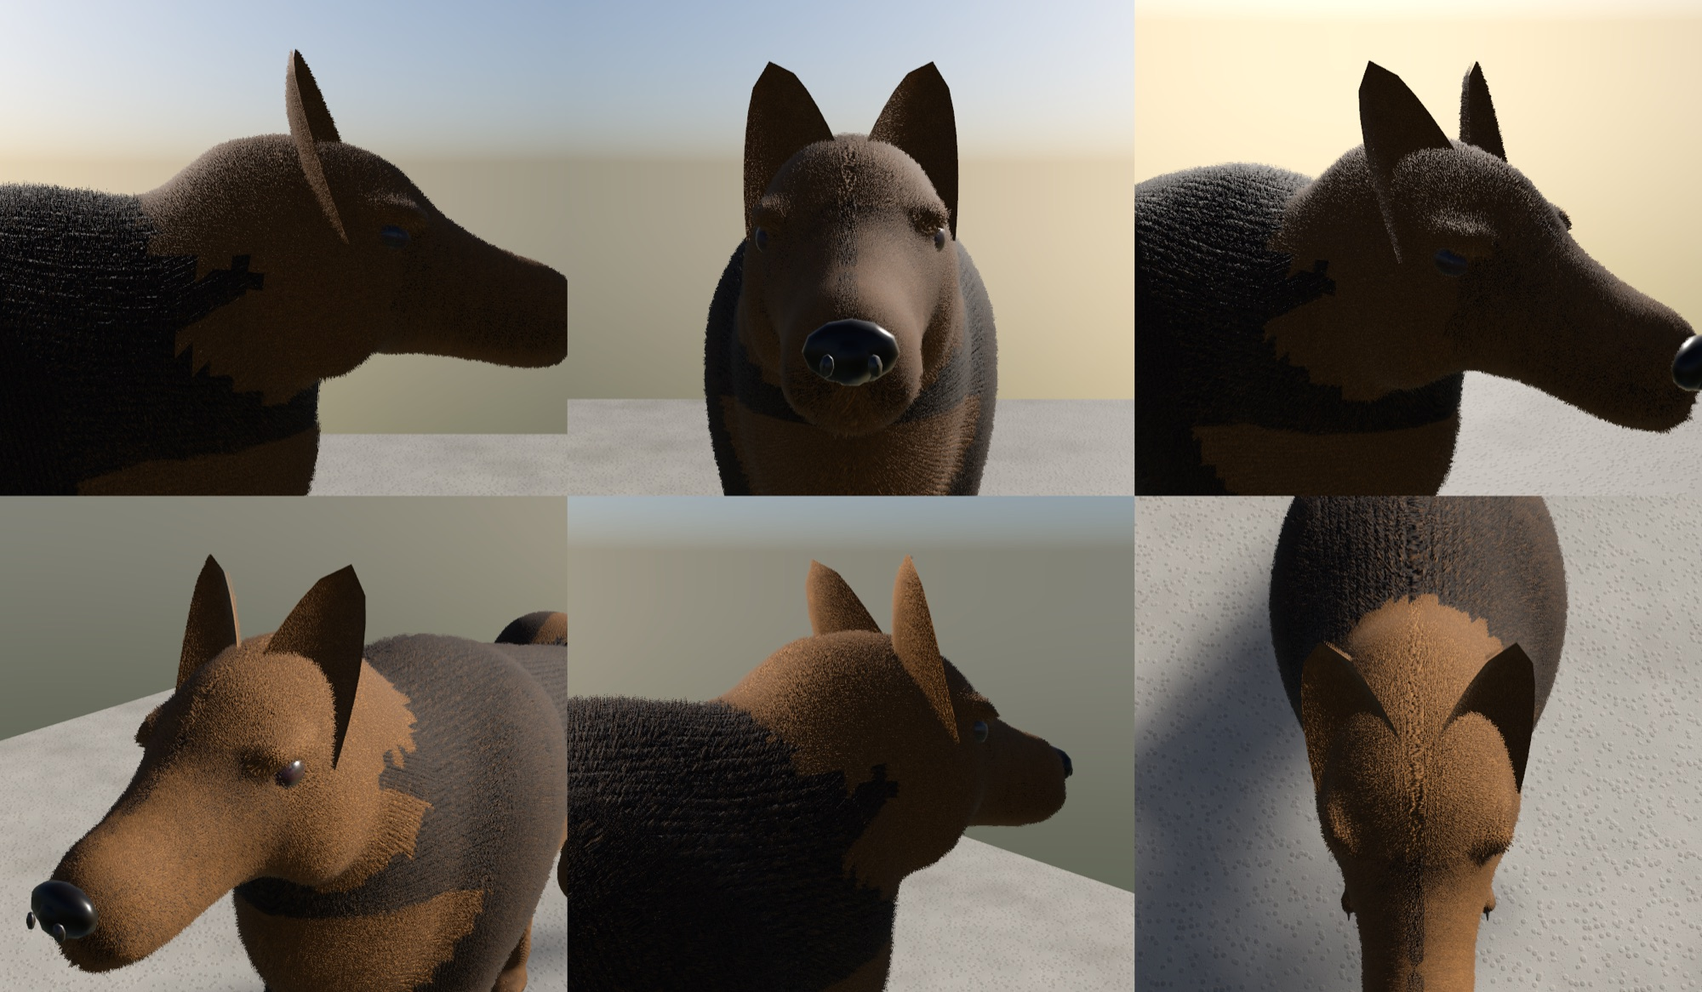
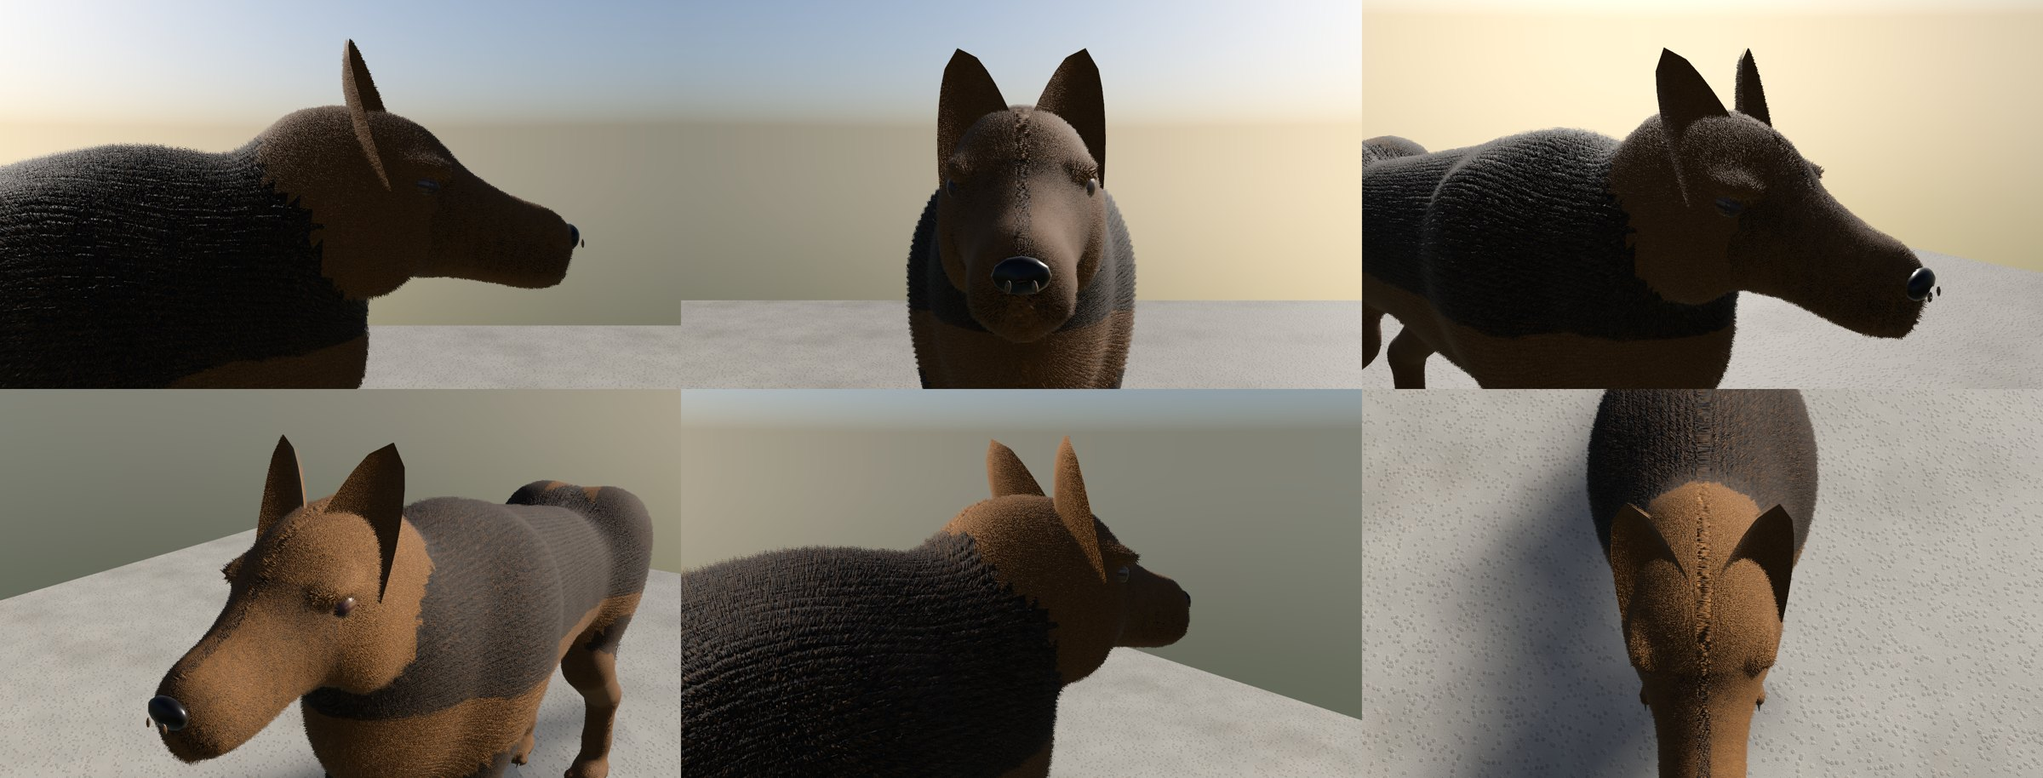
Dogs gate iteration 4: no corgi banding, dog nose and eyes, lower ride height, limb color
Torso fur chart wins over leg charts near the body (SDFPrim.bias), limb shells use coarser strands to stop alpha aliasing, dog coat noise is isotropic in atlas space, nose pad shrunk with slit nostrils, iris colours from palette, rideHeight 0.43 and 0.46, corgi socks via GroundPalette.limb, animalpreview --dump-tex.

diff --git a/Sources/AnimalCore/Species/DogGround.swift b/Sources/AnimalCore/Species/DogGround.swift
@@ -13,11 +13,11 @@ extension GroundProfile {
         blurb: "Feathered gold coat, broad skull and soft hanging ears. Fetches, leans on a hand and wags with the whole back half.",
         anatomy: GroundAnatomy(bodyLength: 0.74, bodyDepth: 0.31, bodyWidth: 0.25, headLength: 0.26, headWidth: 0.15, headHeight: 0.16, snout: 0.1,
                                earLength: 0.15, earWidth: 0.115, tailLength: 0.4, tailWidth: 0.15, foreLeg: 0.5, hindLeg: 0.5, legRadius: 0.03, pitch: -1, eyeRadius: 0.0105,
-                               whiskers: false, digitigrade: true, rideHeight: 0.5, foreAnkle: 0.085, hindAnkle: 0.17,
+                               whiskers: false, digitigrade: true, rideHeight: 0.43, foreAnkle: 0.085, hindAnkle: 0.17,
                                neckLength: 0.16, neckRise: 36, neckThick: 1.0, neckDeep: 1.1, headDrop: 8, thighScale: 1.5, clawScale: 0.8, noseSize: 0.13, earTilt: 0.5, tailDrop: 28,
                                depthShape: [0.35, 0.82, 0.92, 0.9, 0.92, 1.0, 1.04, 0.92, 0.55], widthShape: [0.35, 0.82, 0.9, 0.86, 0.92, 1.0, 1.0, 0.88, 0.5],
                                headShape: [0.86, 1.0, 1.0, 0.94, 0.7, 0.6, 0.56, 0.5], strideScale: 1.1, withers: 0.3, earDrop: 1),
-        palette: GroundPalette(back: 0xDCA95C, belly: 0xDDB97E, accent: 0xE8CB96, ear: 0xB9863F, nose: 0x151110, eye: 0x3A2412, claw: 0x2B2521, tail: 0xD4A560,
+        palette: GroundPalette(back: 0xDCA95C, belly: 0xDDB97E, accent: 0xE8CB96, ear: 0xB9863F, nose: 0x151110, eye: 0x6A4420, claw: 0x2B2521, tail: 0xD4A560,
                                tailTip: 0xE6C48C, face: 0xDDAE68, flankLine: 0.6, pattern: 0.08, strands: 360, fuzz: 0.7, muzzle: 0xDDB87C),
         behavior: GroundBehavior(gait: .stride, walk: 1.1, run: 7, climbs: false, boldness: 1, skittishRadius: 0.3, rarity: 0.2, seasons: dogSeasons,
                                  activity: [.dawn: 1.2, .day: 1, .dusk: 1.2, .night: 0.3],
@@ -28,11 +28,11 @@ extension GroundProfile {
         blurb: "Black saddle over tan, erect ears and a sloping back. Watches the doorway and trots beside a hand.",
         anatomy: GroundAnatomy(bodyLength: 0.8, bodyDepth: 0.31, bodyWidth: 0.22, headLength: 0.27, headWidth: 0.13, headHeight: 0.15, snout: 0.115,
                                earLength: 0.13, earWidth: 0.085, tailLength: 0.42, tailWidth: 0.13, foreLeg: 0.52, hindLeg: 0.52, legRadius: 0.029, pitch: -4, eyeRadius: 0.0095,
-                               whiskers: false, digitigrade: true, rideHeight: 0.52, foreAnkle: 0.085, hindAnkle: 0.19,
+                               whiskers: false, digitigrade: true, rideHeight: 0.46, foreAnkle: 0.085, hindAnkle: 0.19,
                                neckLength: 0.11, neckRise: 38, neckThick: 0.75, neckDeep: 1.15, headDrop: 10, thighScale: 1.5, clawScale: 0.8, noseSize: 0.12, earTilt: 0.22, tailDrop: 40,
                                depthShape: [0.35, 0.8, 0.9, 0.82, 0.88, 1.0, 1.04, 0.9, 0.52], widthShape: [0.35, 0.8, 0.88, 0.8, 0.88, 0.96, 0.98, 0.84, 0.48],
                                headShape: [0.84, 1.0, 0.98, 0.9, 0.66, 0.5, 0.44, 0.4], strideScale: 1.1, withers: 0.6),
-        palette: GroundPalette(back: 0x2A2019, belly: 0xA06A2C, accent: 0x1A1410, ear: 0x3A2A1E, nose: 0x0F0C0A, eye: 0x3A2412, claw: 0x1E1914, tail: 0x2A2019,
+        palette: GroundPalette(back: 0x2A2019, belly: 0xA06A2C, accent: 0x1A1410, ear: 0x3A2A1E, nose: 0x0F0C0A, eye: 0x5A3A1C, claw: 0x1E1914, tail: 0x2A2019,
                                tailTip: 0x1A1410, face: 0xA06C32, flankLine: 0.5, pattern: 0.1, strands: 320, fuzz: 0.45, muzzle: 0x2C2018),
         behavior: GroundBehavior(gait: .stride, walk: 1.2, run: 9, climbs: false, boldness: 0.9, skittishRadius: 0.3, rarity: 0.25, seasons: dogSeasons,
                                  activity: [.dawn: 1.2, .day: 1, .dusk: 1.2, .night: 0.5],
@@ -47,8 +47,8 @@ extension GroundProfile {
                                neckLength: 0.07, neckRise: 30, neckThick: 0.8, neckDeep: 1.05, headDrop: 6, thighScale: 1.35, clawScale: 0.8, noseSize: 0.12, earTilt: 0.3, tailDrop: 0,
                                depthShape: [0.4, 0.86, 0.96, 1.0, 1.02, 1.04, 1.04, 0.95, 0.6], widthShape: [0.4, 0.86, 0.94, 0.98, 1.0, 1.02, 1.0, 0.9, 0.55],
                                headShape: [0.84, 1.0, 0.98, 0.9, 0.68, 0.54, 0.48, 0.44], strideScale: 0.55, withers: 0.2),
-        palette: GroundPalette(back: 0xC27832, belly: 0xF4ECDD, accent: 0xF2E8D6, ear: 0xB86F2C, nose: 0x151110, eye: 0x2E1A0C, claw: 0x2B2521, tail: 0xC27832,
-                               tailTip: 0xC27832, face: 0xC98240, flankLine: 0.62, pattern: 0.1, strands: 340, fuzz: 0.55, muzzle: 0xF0E4D0),
+        palette: GroundPalette(back: 0xC27832, belly: 0xF4ECDD, accent: 0xF2E8D6, ear: 0xB86F2C, nose: 0x151110, eye: 0x4E3216, claw: 0x2B2521, tail: 0xC27832,
+                               tailTip: 0xC27832, face: 0xC98240, flankLine: 0.62, pattern: 0.1, strands: 340, fuzz: 0.55, muzzle: 0xF0E4D0, limb: 0xEBD9BE),
         behavior: GroundBehavior(gait: .stride, walk: 0.9, run: 5, climbs: false, boldness: 1, skittishRadius: 0.3, rarity: 0.2, seasons: dogSeasons,
                                  activity: [.dawn: 1.2, .day: 1, .dusk: 1.2, .night: 0.3],
                                  likes: [.openGround: 1], minHabitat: 0.1, alertRate: 0.3, visitsYards: false))

diff --git a/Sources/RealMaterials/Shaders/FaunaShaders.swift b/Sources/RealMaterials/Shaders/FaunaShaders.swift
@@ -281,6 +281,34 @@ FaStrand fa_strand(float t, float v, int nx, float lenV, uint sd, float wmax, fl
     return o;
 }
 
+// Coat marking weight 0..1 in atlas space (t: 0 dorsal midline .. 1 ventral midline, v: 0 rear .. 1 front).
+// kind 1 tabby stripes, 2 spots, 3 patches, 4 saddle. Painted in the accent colour by furCoat and furShell.
+float coatMark(float2 uv, int kind, uint sd) {
+    kind = kind & 15;
+    if (kind <= 0) return 0.0;
+    float t = min(uv.x, 1.0 - uv.x) * 2.0;
+    float n = fbm(uv, int2(6, 8), 3, sd + 4001u);
+    if (kind == 1) {
+        float w = fbm(uv, int2(4, 6), 2, sd + 4003u);
+        float band = sin((uv.y * 15.0 + t * 2.2 + w * 2.6) * 3.14159265);
+        return smoothstep(0.30, 0.52, band) * (1.0 - smoothstep(0.62, 0.86, t + 0.08 * n));
+    }
+    if (kind == 2) {
+        float2 g = float2(t * 9.0, uv.y * 15.0);
+        float2 c0 = floor(g); float best = 9.0; float rad = 0.3;
+        for (int j = -1; j <= 1; j++) for (int i = -1; i <= 1; i++) {
+            float2 c = c0 + float2(i, j);
+            uint hs = pcg(uint(int(c.x) + 4096) * 7919u + uint(int(c.y) + 4096) * 104729u + sd + 4007u);
+            float2 o = float2(float(hs & 0xffffu), float((hs >> 16) & 0xffffu)) / 65536.0;
+            float r = length(g - (c + 0.2 + 0.6 * o));
+            if (r < best) { best = r; rad = 0.18 + 0.2 * (float(pcg(hs) & 0xffffu) / 65536.0); }
+        }
+        return (1.0 - smoothstep(rad * 0.7, rad, best)) * (1.0 - smoothstep(0.8, 0.95, t));
+    }
+    if (kind == 3) return smoothstep(0.0, 0.06, fbm(uv, int2(3, 4), 3, sd + 4011u));
+    return 1.0 - smoothstep(0.34, 0.46, t + 0.07 * n);
+}
+
 S furCoat(float2 uv, constant RFParams &P) {
     S s = defaults(); s.rough = 0.9;
     float nx0 = max(P.f.x, 24.0);
@@ -290,11 +318,14 @@ S furCoat(float2 uv, constant RFParams &P) {
     float lum = dot(P.colorC.rgb, float3(0.3, 0.55, 0.15));
     float sw = P.f.z * (1.0 - smoothstep(0.08, 0.30, lum));            // stripes only with a dark colorC
     // Coat-wide colour variation: broad light/dark patches plus a warm/cool drift.
-    float patch = fbm(uv, int2(5, 7), 3, P.seed + 111u);
-    float drift = fbm(uv, int2(9, 13), 2, P.seed + 211u);
+    // Dog charts (pad0 bit 16) cover u 0..0.5 per half circumference but v 0..1, so halve the u frequency for round blotches.
+    bool dg = int(P.pad0) >= 16;
+    int2 fP = dg ? int2(3, 6) : int2(5, 7), fD = dg ? int2(6, 12) : int2(9, 13);
+    float patch = fbm(uv, fP, 3, P.seed + 111u);
+    float drift = fbm(uv, fD, 2, P.seed + 211u);
     float3 tint = float3(1.0 + 0.06 * drift, 1.0, 1.0 - 0.06 * drift) * (1.0 + 0.14 * patch);
     // Low-frequency domain warp breaks strand-row alignment (tile banding). Mirror safe: t stays >= 0.
-    float2 wp = float2(fbm(uv, int2(6, 9), 2, P.seed + 301u), fbm(uv, int2(7, 5), 2, P.seed + 303u));
+    float2 wp = float2(fbm(uv, dg ? int2(4, 8) : int2(6, 9), 2, P.seed + 301u), fbm(uv, dg ? int2(3, 6) : int2(7, 5), 2, P.seed + 303u));
     float tw = fabs(t + 0.006 * wp.x), vw = uv.y + 0.008 * wp.y;
     // Layers from the surface down: sparse long guard hairs, then four dense fine coat layers.
     const float scl[5] = { 0.42, 1.0, 1.17, 0.88, 1.31 };
@@ -358,6 +389,12 @@ S furCoat(float2 uv, constant RFParams &P) {
     bool underM = (t + zn) > P.f.y;
     float3 coat = (underM ? P.colorB.rgb : P.colorA.rgb) * tint * (0.92 + 0.12 * soft);
     outC = mix(outC, coat, 0.45);
+    float mk = coatMark(uv, int(P.pad0), P.seed);
+    if (mk > 0.001) {
+        float dr = clamp(dot(outC, float3(0.3, 0.55, 0.15)) / max(dot(coat, float3(0.3, 0.55, 0.15)), 0.02), 0.55, 1.5);
+        outC = mix(outC, P.colorC.rgb * dr, mk * 0.94);
+        coat = mix(coat, P.colorC.rgb, mk * 0.94);
+    }
     // Guard every channel: a NaN height turns the derived normal map NaN, which renders black under IBL.
     if (!all(isfinite(outC))) outC = coat;
     if (!isfinite(hgt)) hgt = 0.2;
@@ -395,6 +432,8 @@ S furShell(float2 uv, constant RFParams &P) {
     bool under = (t + zn) > P.f.y;
     float3 base = (under ? P.colorB.rgb : P.colorA.rgb) * (0.86 + 0.28 * h2);
     bool guard = h1 > 1.0 - P.f.w;
+    float mk = coatMark(uv, int(P.pad0), P.seed);
+    base = mix(base, P.colorC.rgb * (0.86 + 0.28 * h2), mk * 0.94);
     s.albedo = guard ? mix(base, P.colorC.rgb, P.f.z) : base;
     s.height = s.alpha; s.ao = 1.0;
     return s;

diff --git a/Sources/AnimalCore/Materials/FaunaMaterials.swift b/Sources/AnimalCore/Materials/FaunaMaterials.swift
@@ -148,7 +148,10 @@ public enum FaunaMaterials {
     public static func specs(for p: GroundProfile) -> [MaterialSpec] {
         let id = p.species.rawValue, c = p.palette
         func make(_ r: GroundRegion, _ program: TextureProgram, _ edit: (inout MaterialSpec) -> Void) -> MaterialSpec {
-            MaterialSpec(key: key(id, r), program: program).with { $0.seed = seed(id, r); edit(&$0) }
+            MaterialSpec(key: key(id, r), program: program).with {
+                $0.seed = seed(id, r); edit(&$0)
+                if program == .furCoat || program == .furShell, c.markings != 0 || GroundSpecies.dogs.contains(p.species) { $0.coatPattern = c.markings | (GroundSpecies.dogs.contains(p.species) ? 16 : 0) }
+            }
         }
         return [
             make(.body, .furCoat) {
@@ -173,7 +176,7 @@ public enum FaunaMaterials {
             make(.limb, .furCoat) {
                 // Leg coat: body coat program, finer strands, no shells (thin limbs show shell layering).
                 let dog = p.anatomy.earDrop >= 0 && GroundSpecies.dogs.contains(p.species)
-                $0.colorA = linear(dog ? c.belly : c.back); $0.colorB = linear(c.belly); $0.colorC = linear(c.accent)
+                $0.colorA = linear(dog ? (c.limb ?? c.belly) : c.back); $0.colorB = linear(c.belly); $0.colorC = linear(c.accent)
                 $0.knobs = V4(c.strands * 1.4, dog ? 1.2 : c.flankLine, c.pattern * 0.5, c.fuzz)
                 $0.tileSize = 0; $0.resolution = 512; $0.normalStrength = 1.0; $0.roughness = 0.92
             },
@@ -185,8 +188,8 @@ public enum FaunaMaterials {
             },
             make(.limbShell, .furShell) {
                 // Dog leg fur: one coat colour all round (the back/belly split reads as stripes on a cylinder).
-                $0.colorA = linear(c.belly); $0.colorB = linear(c.belly); $0.colorC = linear(c.accent)
-                $0.knobs = V4(c.strands, 1.2, 0.5, 0.25)
+                $0.colorA = linear(c.limb ?? c.belly); $0.colorB = linear(c.limb ?? c.belly); $0.colorC = linear(c.accent)
+                $0.knobs = V4(c.strands * 0.4, 1.2, 0.5, 0.25)
                 $0.tileSize = 0; $0.resolution = 1024; $0.normalStrength = 0.4; $0.roughness = 0.86; $0.mode = .cutout
             },
             make(.headShell, .furShell) {
@@ -212,12 +215,13 @@ public enum FaunaMaterials {
                 $0.tileSize = 0.01; $0.resolution = 128; $0.normalStrength = 0.2; $0.roughness = 0.5
             },
             make(.nose, .plastic) {
+                let dog = GroundSpecies.dogs.contains(p.species)
                 $0.colorA = linear(c.nose); $0.knobs = V4(0.4, 0.3, 0.3, 0)
-                $0.tileSize = 0.02; $0.resolution = 128; $0.normalStrength = 0.3; $0.roughness = p.anatomy.snoutDisc ? 0.6 : 0.35; $0.clearcoat = p.anatomy.snoutDisc ? 0.04 : 0.3
+                $0.tileSize = 0.02; $0.resolution = 128; $0.normalStrength = dog ? 1.4 : 0.3; $0.roughness = p.anatomy.snoutDisc ? 0.6 : (dog ? 0.5 : 0.35); $0.clearcoat = p.anatomy.snoutDisc ? 0.04 : (dog ? 0.12 : 0.3)
             },
             make(.eye, .plastic) {
                 // Dark brown iris under a clear cornea: tiny roughness, full clearcoat for the wet highlight.
-                $0.colorA = linear(0x120804); $0.knobs = V4(0.25, 0.2, 0.25, 0)
+                $0.colorA = linear(GroundSpecies.dogs.contains(p.species) ? c.eye : 0x120804); $0.knobs = V4(0.25, 0.2, 0.25, 0)
                 $0.tileSize = 0.004; $0.resolution = 128; $0.normalStrength = 0; $0.roughness = 0.02; $0.clearcoat = 1; $0.specular = 1
             },
             make(.claw, .plastic) {

diff --git a/Sources/AnimalCore/Geometry/SDFBody.swift b/Sources/AnimalCore/Geometry/SDFBody.swift
@@ -41,6 +41,8 @@ struct SDFPrim {
     var joint: String
     var chart: Int
     var blend: Float
+    /// Meters subtracted from this shape's distance when picking a vertex's fur chart, so a torso chart wins where a limb only just emerges.
+    var bias: Float = 0
     var lo: V3 = .zero, hi: V3 = .zero
 
     init(_ kind: Kind, joint: String, chart: Int, blend: Float) {
@@ -88,16 +90,18 @@ struct SDFBody {
     var charts: [SDFChart] = []
 
     mutating func chart(_ c: SDFChart) -> Int { charts.append(c); return charts.count - 1 }
-    mutating func add(_ k: SDFPrim.Kind, joint: String, chart: Int, blend: Float) { prims.append(SDFPrim(k, joint: joint, chart: chart, blend: blend)) }
+    mutating func add(_ k: SDFPrim.Kind, joint: String, chart: Int, blend: Float, bias: Float = 0) {
+        var p = SDFPrim(k, joint: joint, chart: chart, blend: blend); p.bias = bias; prims.append(p)
+    }
     mutating func cone(_ a: V3, _ b: V3, _ ra: Float, _ rb: Float, joint: String, chart: Int, blend: Float) {
         add(.cone(a: a, b: b, ra: ra, rb: rb), joint: joint, chart: chart, blend: blend)
     }
     /// Ellipsoid with radii `r` along `x`, `y` and `z` (axes need not be exactly orthogonal).
-    mutating func ellipsoid(_ c: V3, _ r: V3, x: V3, y: V3, joint: String, chart: Int, blend: Float) {
+    mutating func ellipsoid(_ c: V3, _ r: V3, x: V3, y: V3, joint: String, chart: Int, blend: Float, bias: Float = 0) {
         let xn = simd_normalize(x)
         var yn = y - xn * simd_dot(y, xn); yn = simd_normalize(yn)
         let zn = simd_cross(xn, yn)
-        add(.ellipsoid(c: c, r: r, q: simd_quatf(simd_float3x3(columns: (xn, yn, zn)))), joint: joint, chart: chart, blend: blend)
+        add(.ellipsoid(c: c, r: r, q: simd_quatf(simd_float3x3(columns: (xn, yn, zn)))), joint: joint, chart: chart, blend: blend, bias: bias)
     }
 
     func field(_ p: V3) -> Float {
@@ -205,7 +209,9 @@ struct SDFBody {
             normal[i] = simd_length(g) > 1e-8 ? simd_normalize(g) : V3(0, 1, 0)
             let ds = prims.map { $0.distance(pos[i]) }
             let dmin = ds.filter { $0.isFinite }.min() ?? 0
-            primary[i] = prims[ds.firstIndex(of: dmin) ?? 0].chart
+            var best = 0, bestD = Float.greatestFiniteMagnitude
+            for (n, d) in ds.enumerated() where d.isFinite && d - prims[n].bias < bestD { bestD = d - prims[n].bias; best = n }
+            primary[i] = prims[best].chart
             var byJoint: [Int: Float] = [:]
             for (s, d) in zip(prims, ds) where d.isFinite { byJoint[jointIdx[s.joint]!, default: 0] += exp(-(d - dmin) / tau) }
             let top = byJoint.sorted { $0.value > $1.value }.prefix(4)

diff --git a/Sources/AnimalCore/Anatomy/QuadrupedBody.swift b/Sources/AnimalCore/Anatomy/QuadrupedBody.swift
@@ -213,10 +213,12 @@ enum QuadrupedBody {
         // Nose pad with nostrils, white muzzle band and chin.
         let hw = a.headWidth
         rig.add(Loft.ellipsoid(center: noseTip + V3(0, 0.002, 0.004), axis: V3(0, 0, -1), up: GroundFrame.Y,
-                               radii: V3(hw * 0.19, hw * 0.13, hw * 0.1), rings: 7, segments: 12, material: f.mat(.nose)), to: GroundJoint.headPitch.name)
+                               radii: plan.dog ? V3(hw * 0.15, hw * 0.1, hw * 0.075) : V3(hw * 0.19, hw * 0.13, hw * 0.1), rings: 7, segments: 12, material: f.mat(.nose)), to: GroundJoint.headPitch.name)
         for sd in Side.allCases {
-            rig.add(Loft.ellipsoid(center: noseTip + V3(sd.sign * hw * 0.09, 0.0, -hw * 0.085), axis: V3(sd.sign * 0.6, 0.3, -1), up: GroundFrame.Y,
-                                   radii: V3(hw * 0.03, hw * 0.045, hw * 0.02), rings: 5, segments: 8, material: f.mat(.eye)), to: GroundJoint.headPitch.name)
+            // Dog nostrils are comma slits sunk into the pad face; other species keep the round studs.
+            let slit = plan.dog
+            rig.add(Loft.ellipsoid(center: noseTip + V3(sd.sign * hw * (slit ? 0.065 : 0.09), slit ? -0.001 : 0.0, -hw * (slit ? 0.065 : 0.085)), axis: V3(sd.sign * 0.6, 0.3, -1), up: GroundFrame.Y,
+                                   radii: slit ? V3(hw * 0.016, hw * 0.034, hw * 0.012) : V3(hw * 0.03, hw * 0.045, hw * 0.02), rings: 5, segments: 8, material: f.mat(.eye)), to: GroundJoint.headPitch.name)
         }
         if !plan.dog {
             rig.add(Loft.ellipsoid(center: noseTip + V3(0, -0.004, 0.034), axis: V3(0, 0, -1), up: GroundFrame.Y,

diff --git a/Sources/animalpreview/main.swift b/Sources/animalpreview/main.swift
@@ -46,6 +46,15 @@ func run() async throws {
     let close = opt("--dist") == "close"
     let azArg = Float(opt("--az") ?? "-62") ?? -62
     let names = args.filter { !$0.hasPrefix("-") && ![out, opt("--pose") ?? "", opt("--w") ?? "", opt("--h") ?? ""].contains($0) }
+    if args.contains("--dump-tex"), let sp = GroundSpecies(rawValue: names.first ?? "") {
+        // Writes the albedo atlas of every fauna material of a ground species to `<out>/<key>.png`.
+        guard let synth = TextureSynth.shared else { exit(1) }
+        for spec in FaunaMaterials.specs(for: sp.profile) where spec.program != nil {
+            let set = try synth.generate(spec, size: min(spec.resolution, 1024))
+            writePNG(synth.cgImage(set.albedo)!, "\(out)/\(spec.key).png")
+        }
+        exit(0)
+    }
     if args.contains("--dump") {
         let sp = BirdSpecies(rawValue: names.first ?? "eastern-bluebird") ?? .easternBluebird
         let built = BirdRigBuilder.build(sp.profile)

diff --git a/Sources/RealMaterials/TextureSynth.swift b/Sources/RealMaterials/TextureSynth.swift
@@ -133,7 +133,7 @@ public final class TextureSynth: @unchecked Sendable {
         let n = set.albedo.width
         var p = RFParams(kind: program.rawValue, seed: spec.seed, size: Int32(n), alphaMode: spec.mode == .cutout || (spec.mode == .emissive && spec.opacity < 1) ? 1 : 0,
                          colorA: spec.colorA, colorB: spec.colorB, colorC: spec.colorC, f: spec.knobs,
-                         normalStrength: spec.normalStrength, flipGreen: Self.flipGreen)
+                         normalStrength: spec.normalStrength, flipGreen: Self.flipGreen, pad0: Float(spec.coatPattern))
         let height = makeTexture(.r16Float, n, mips: false)
         let scratchR = spec.hasAOMap ? nil : makeTexture(.r8Unorm, n, mips: false)
         let scratchM = spec.hasMetallicMap ? nil : makeTexture(.r8Unorm, n, mips: false)

diff --git a/Sources/AnimalCore/Anatomy/GroundRigBuilder.swift b/Sources/AnimalCore/Anatomy/GroundRigBuilder.swift
@@ -332,8 +332,10 @@ public enum GroundRigBuilder {
         // Nose, eyes, lids.
         let nr = a.noseSize * a.headWidth
         let disc = a.snoutDisc
-        rig.add(Prim.cubeSphere(subdivisions: 3, material: f.mat(.nose)) { disc ? V3($0.x * nr, $0.y * nr * 0.8, $0.z * nr * 0.4) : $0 * nr },
-                Xform(translation: noseTip + V3(0, 0, disc ? -0.002 : 0.004)), to: GroundJoint.headPitch.name)
+        if !sdfDog {
+            rig.add(Prim.cubeSphere(subdivisions: 3, material: f.mat(.nose)) { disc ? V3($0.x * nr, $0.y * nr * 0.8, $0.z * nr * 0.4) : $0 * nr },
+                    Xform(translation: noseTip + V3(0, 0, disc ? -0.002 : 0.004)), to: GroundJoint.headPitch.name)
+        }
         for s in Side.allCases {
             var c = eyeAt(s)
             if small {

diff --git a/Sources/AnimalCore/Anatomy/DogBody.swift b/Sources/AnimalCore/Anatomy/DogBody.swift
@@ -20,7 +20,7 @@ extension QuadrupedBody {
             let rx = 0.5 * a.bodyWidth * st.w, rd = 0.5 * a.bodyDepth * st.d, rv = 0.5 * a.bodyDepth * 0.95 * st.v
             let end = st.t < 0.05 || st.t > 0.97
             sdf.ellipsoid(c + f.U * (0.5 * (rd - rv)), V3(rx, 0.5 * (rd + rv), L * (end ? 0.09 : 0.15)), x: X, y: f.U,
-                          joint: st.t < 0.5 ? GroundJoint.spine.name : "root", chart: bodyChart, blend: 0.07)
+                          joint: st.t < 0.5 ? GroundJoint.spine.name : "root", chart: bodyChart, blend: 0.07, bias: 0.03)
         }
 
         // Neck: two cones from the withers to the back of the skull.

diff --git a/Sources/RealMaterials/MaterialSpec.swift b/Sources/RealMaterials/MaterialSpec.swift
@@ -99,6 +99,9 @@ public struct MaterialSpec: Sendable, Hashable {
     /// `Doneness` parameter, then layers Maillard browning and char by `BrownTop`/`BrownBottom`
     /// (RealKit `RealCookMaterial`). nil = not cookable.
     public var cooked: MaterialKey? = nil
+    /// Coat marking for `furCoat` and `furShell`, painted in `colorC`: 0 none, 1 tabby stripes, 2 spots,
+    /// 3 patches, 4 saddle (dorsal cape).
+    public var coatPattern: Int32 = 0
 
     public init(key: MaterialKey, program: TextureProgram?) { self.key = key; self.program = program }
 

diff --git a/Sources/AnimalCore/Species/GroundSpecies.swift b/Sources/AnimalCore/Species/GroundSpecies.swift
@@ -156,6 +156,10 @@ public struct GroundPalette: Sendable, Hashable {
     public var patch: UInt32 = 0xF4EEE2
     /// Neck mane and bristle coat.
     public var mane: UInt32?
+    /// Coat marking painted in `accent`: 0 none, 1 tabby, 2 spots, 3 patches, 4 saddle (`MaterialSpec.coatPattern`).
+    public var markings: Int32 = 0
+    /// Lower leg coat colour for dogs (defaults to `belly`).
+    public var limb: UInt32?
 }
 
 public struct GroundBehavior: Sendable {

diff --git a/docs/dogs/GATE.md b/docs/dogs/GATE.md
@@ -10,5 +10,6 @@ Scored by eye against a written breed checklist (head, ears, topline, legs, tail
 | 1 (SDF coat) | 3 | 3 | 2 | manatee head, buried nose and eyes, 19 cm neck radius, rump ball |
 | 2 | 4 | 4 | 3 | silky hanging ears, plume tail, feathering, striped legs |
 | 3 | 5 | 5 | 5 | erect furred ears, nose pad, corgi flank line and white legs, flipped-quad hole |
+| 4 | 5 | 5 | 6 | corgi flank and thigh banding (leg chart won over torso chart, limb shell alias), stud nostrils and oversized nose sphere, near-black eyes, stilt legs |
 
-Open: coat reads as strand rows at close range, fur chart seams on the flank, legs thin for the golden.
+Open: coat reads as strand rows at close range, dorsal seam on the shepherd head, ragged saddle edge, golden muzzle too blunt, shepherd tail is a flat card, corgi hind paws read as bones.
